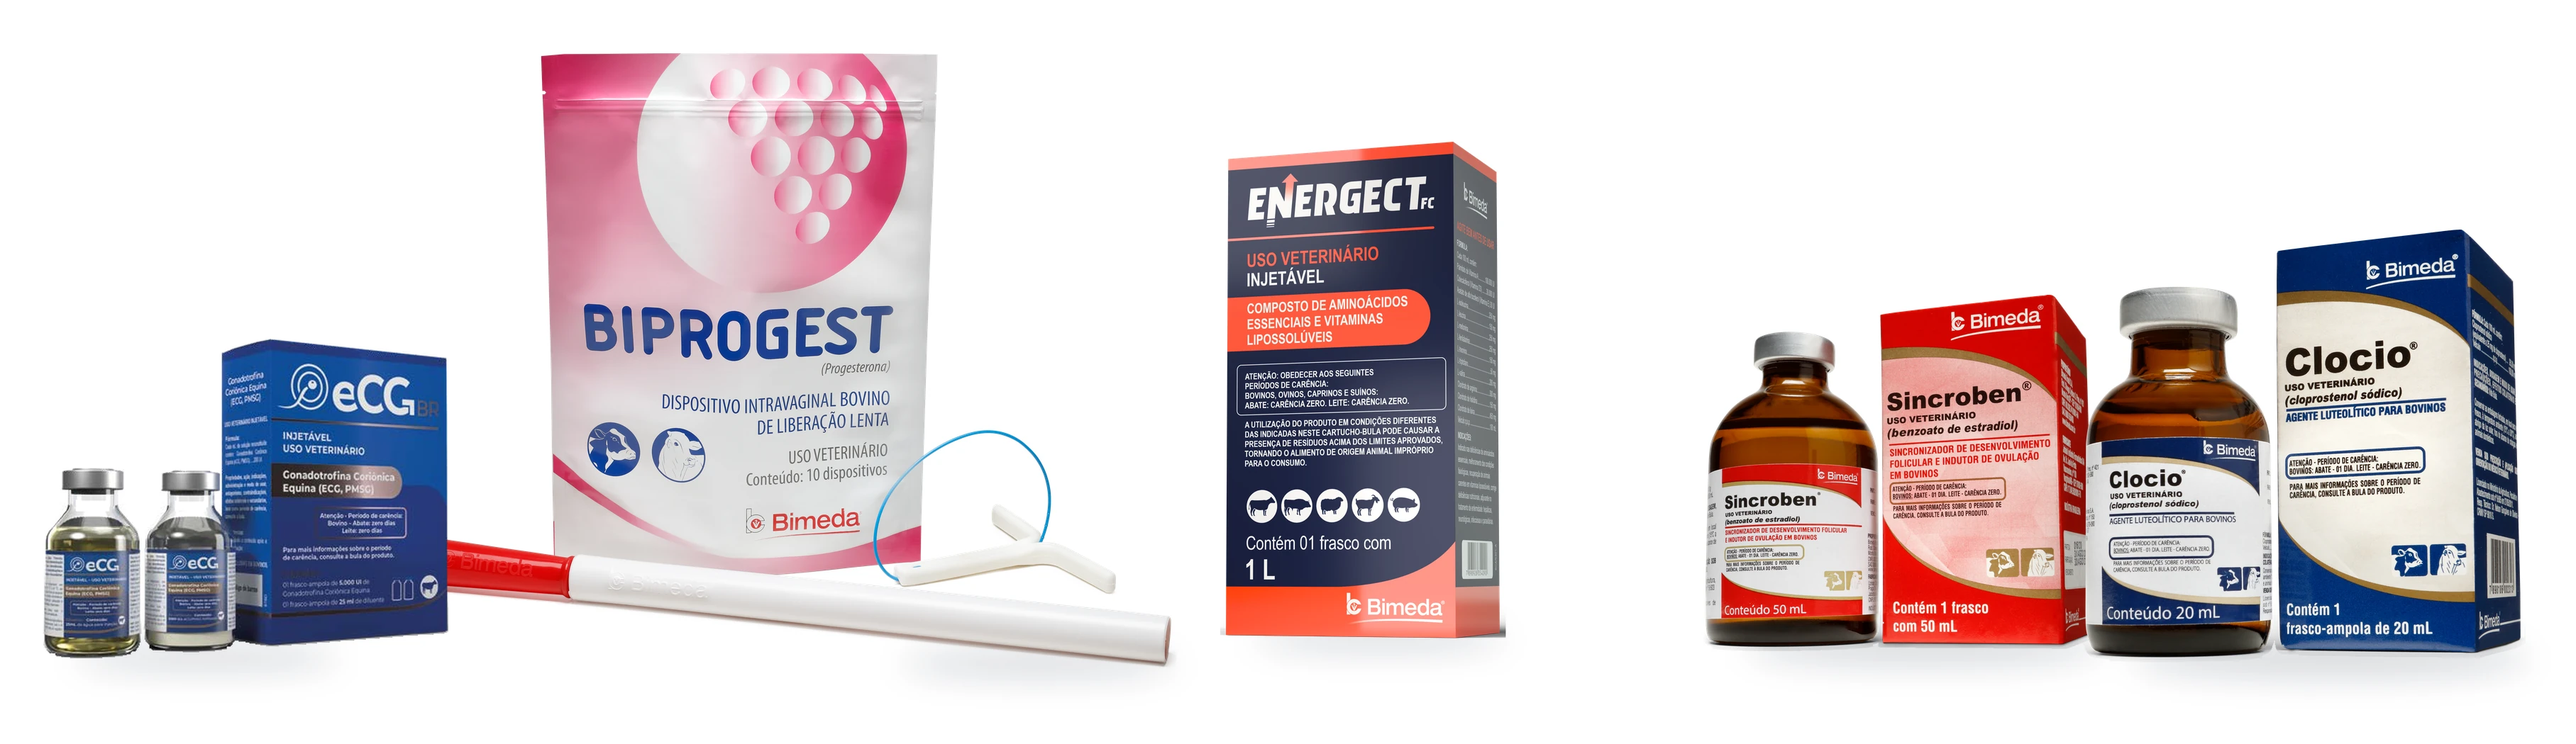
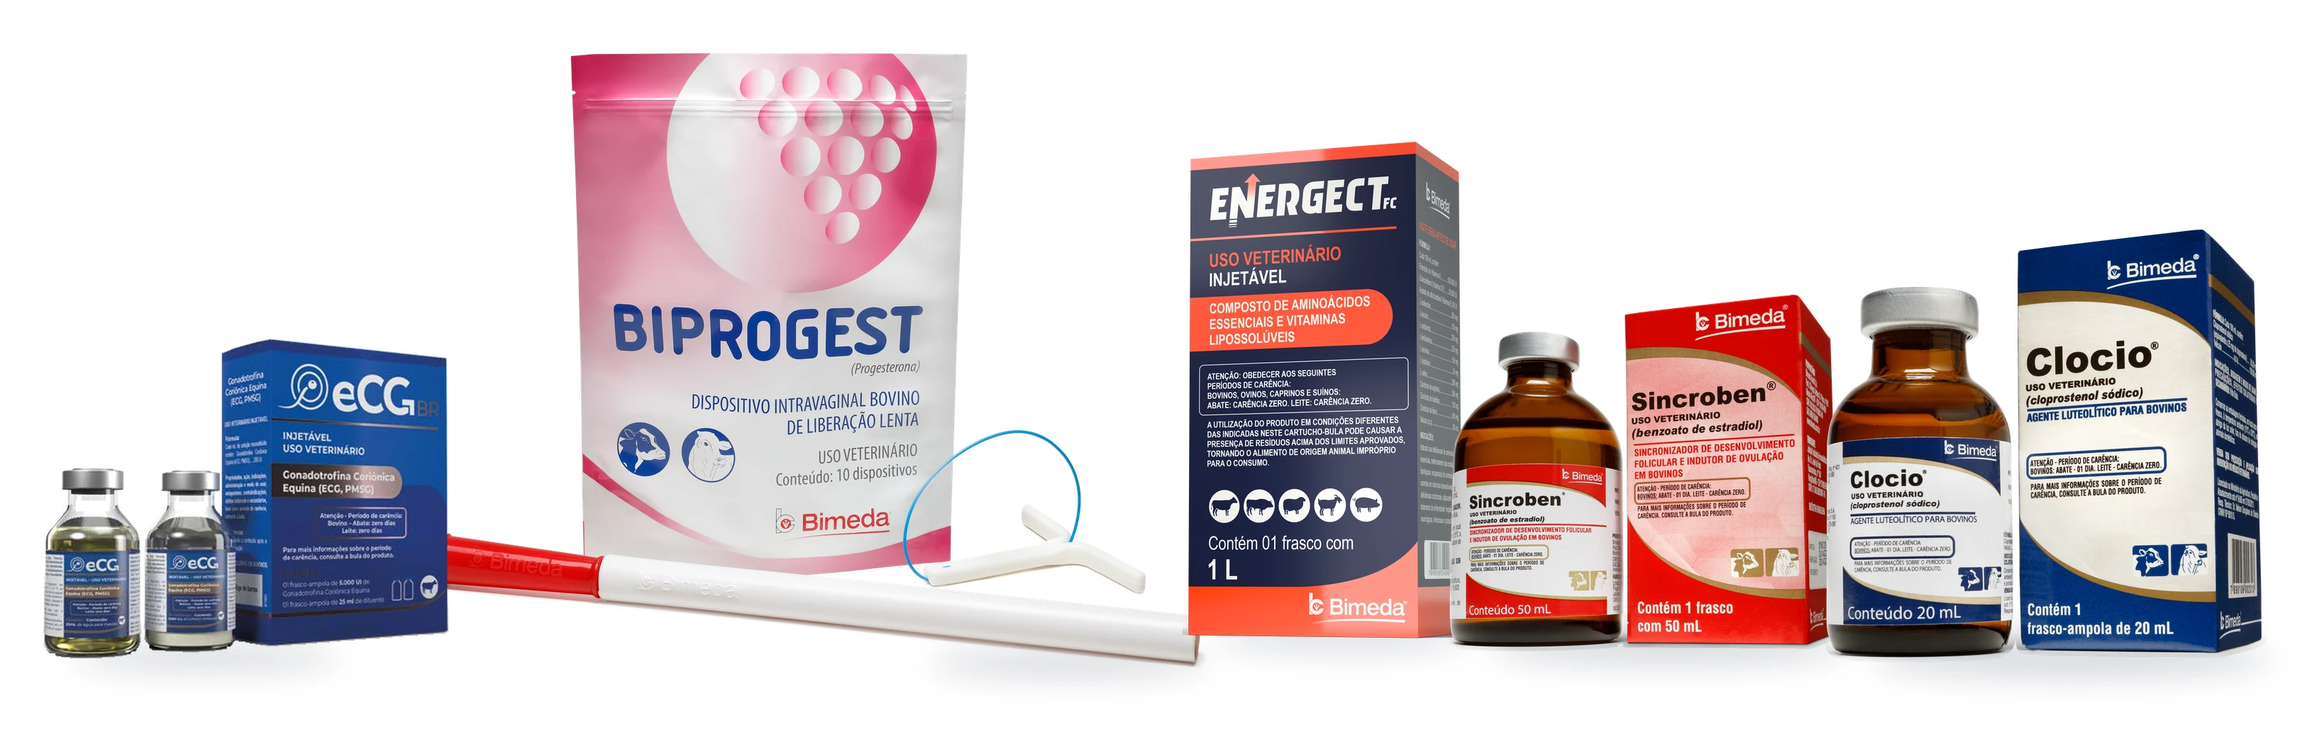
Corrige espacamento da foto de familia: silhueta, nao numero magico
A rodada anterior tinha vao morto enorme entre Biprogest e Energect,
porque o espacamento usava numeros ajustados no olho por par (`folga`),
calibrados sobre a largura da caixa delimitadora de cada peca. Para o
Biprogest isso e um problema: o aplicador, fino e diagonal, deixa a caixa
delimitadora bem mais larga que o saco em si, entao qualquer numero fixo
ou deixa vao morto (caso anterior) ou risca de colidir com o vizinho.

Troquei por um encaixe por perfil de silhueta: para cada linha do canvas
final, calcula a borda visual real (esquerda/direita) de cada produto, e
posiciona a peca seguinte encostando nessa borda com uma unica constante
de sobreposicao leve (GAP=-16px), igual para todo par. Sem numero magico
por peca, sem gap arbitrario, encaixa como produtos numa mesa de verdade.

Continua 100% compositing de pixel real, mesma regra de sempre: nenhum
pixel de produto e alterado, so a sombra de estudio solta de cada arquivo
e apagada (funcao sombra_segura, ja existente, sem mudanca).

diff --git a/index.html b/index.html
@@ -193,7 +193,7 @@
         <source srcset="assets/img/produtos-familia.webp" type="image/webp">
         <img src="assets/img/produtos-familia.png"
              alt="eCG BR, Biprogest, Energect FC, Sincroben e Clocio, linha Bimeda Reprodução"
-             width="3631" height="1050" loading="lazy">
+             width="3266" height="1050" loading="lazy">
       </picture>
     </div>
 

diff --git a/tools/monta-foto-familia.py b/tools/monta-foto-familia.py
@@ -7,16 +7,27 @@ funcao de sombra so mexe em pixels comprovadamente fora de um halo de
 protecao ao redor de qualquer pixel opaco, entao rotulo, texto e detalhe
 fino nunca sao tocados.
 
-O fundo e branco puro, igual ao resto do site. Foi testado gerar uma chapa
-de estudio via IA (Higgsfield / Nano Banana) para servir de fundo, mas o
-resultado ficou "montado" demais numa pagina que ja e branca do começo ao
-fim: descartado. A propria tentativa de IA compor os produtos foi
-descartada antes disso, por um motivo mais serio: o modelo reescreve texto
-pequeno de rotulo, e reescreve errado (viu-se "ECC, PHEC" no lugar de
-"ECG, PMSG", "USG VETERINARIO" no lugar de "USO VETERINARIO", dosagem
-trocada). Produto veterinario regulado nao pode correr esse risco, entao a
-montagem final e 100% compositing de pixel real, sem generativa nenhuma
-tocando produto.
+O fundo e branco puro, igual ao resto do site. Duas vias generativas foram
+testadas e descartadas antes desta: (1) compor os cinco produtos inteiros
+no Higgsfield (Nano Banana 2), com os pack shots reais como referencia de
+imagem, luz e sombra saiam otimas mas o modelo reescrevia o texto miudo do
+rotulo, e reescrevia errado ("ECC, PHEC" no lugar de "ECG, PMSG", "USG
+VETERINARIO" no lugar de "USO VETERINARIO", dosagem trocada no Sincroben);
+(2) gerar so uma chapa de estudio vazia via IA para servir de fundo, e
+compor os produtos reais por cima, descartado por deixar a composicao
+"montada" demais numa pagina que ja e branca do inicio ao fim. A montagem
+final e 100% compositing de pixel real, sem generativa nenhuma tocando
+produto.
+
+Posicionamento: nao ha numero magico de espacamento por par (isso ja foi
+tentado e gerou vao morto enorme entre Biprogest e Energect, porque a
+largura da caixa delimitadora do Biprogest inclui o aplicador, um apendice
+fino e diagonal, bem mais largo que o saco em si). Em vez disso, cada
+produto e encostado no anterior calculando, linha por linha no eixo Y do
+canvas final, a borda visual real da silhueta de cada um (ver
+`perfil_esq_dir`), com uma unica constante `GAP` de sobreposicao leve,
+igual para todo par. O resultado e produtos encostados como numa mesa de
+verdade, sem gap arbitrario e sem numero ajustado no olho por peca.
 
 Proporcao entre os produtos: nao inventada. Vem da propria foto que a
 Bimeda ja aprovou (a que estava no ar antes desta rodada), medida por
@@ -35,19 +46,19 @@ AQUI = os.path.dirname(__file__)
 SAIDA = os.path.join(AQUI, '..', 'assets', 'img')
 
 H, BASE = 1050, 900
+REF_H = 700   # altura de referencia do Energect na arte final, em px
+GAP = -16     # negativo = leve sobreposicao de contato entre pecas vizinhas, mesma pra todo par
 
 # alturas medidas na foto ja aprovada pelo cliente (energect = referencia 601px = 1.0)
 #   biprogest 708/601=1.178 | clocio-caixa 512/601=0.852 | sincroben-caixa 426/601=0.709
-REF_H = 700  # altura de referencia do Energect na arte final, em px
-
 PECAS = [
-  # chave        arquivo                                                                razao  folga  avanco
-  ('ecg',        os.path.join(AQUI, 'ecg-recorte-limpo.png'),                           0.62,  -70,  14),
-  ('biprogest',  B+'/imagens/produtos/Biprogest/Embalagem + Produto Biprogest.png',      1.178, -330,  0),
+  # chave        arquivo                                                                 razao  avanco
+  ('ecg',        os.path.join(AQUI, 'ecg-recorte-limpo.png'),                            0.62,   14),
+  ('biprogest',  B+'/imagens/produtos/Biprogest/Embalagem + Produto Biprogest.png',       1.178,   0),
   ('energect',   B+'/materiais enviados/2025/Energect/Materiais do Folheto Energect/'
-                   'Cartucho - Energect FC 1000 mL - Direita.png',                      1.000, -46,   0),
-  ('sincroben',  B+'/imagens/produtos/Sincroben/Frasco + Cartucho - Sincroben 50 mL.png',0.709, -58,  12),
-  ('clocio',     B+'/imagens/produtos/Clocio/Frasco + Cartucho - Clocio 20 mL.png',      0.852,   0,  20),
+                   'Cartucho - Energect FC 1000 mL - Direita.png',                       1.000,   0),
+  ('sincroben',  B+'/imagens/produtos/Sincroben/Frasco + Cartucho - Sincroben 50 mL.png', 0.709,  12),
+  ('clocio',     B+'/imagens/produtos/Clocio/Frasco + Cartucho - Clocio 20 mL.png',       0.852,  20),
 ]
 ORDEM_Z = ['biprogest', 'energect', 'ecg', 'sincroben', 'clocio']
 
@@ -93,8 +104,24 @@ def sombra_segura(im, protecao_px):
     out[:, :, 3] = novo
     return Image.fromarray(out)
 
+def perfil_esq_dir(im):
+    """Para cada linha local (y), a coluna mais a esquerda e mais a direita
+    com pixel opaco, ou -1 se a linha nao tem conteudo. E o que permite
+    encostar duas silhuetas de verdade em vez de usar a largura da caixa
+    delimitadora, que para pecas com apendice fino (como o aplicador do
+    Biprogest) e bem maior que o produto em si."""
+    a = np.array(im)[:, :, 3] > 190
+    esq = np.full(im.height, -1, dtype=int)
+    dir_ = np.full(im.height, -1, dtype=int)
+    for y in range(im.height):
+        xs = np.where(a[y])[0]
+        if len(xs):
+            esq[y] = xs.min()
+            dir_[y] = xs.max()
+    return esq, dir_
+
 unidades = []
-for chave, path, razao, folga, avanco in PECAS:
+for chave, path, razao, avanco in PECAS:
     im_orig = carregar_sem_tocar(path)
     protecao = max(6, round(im_orig.height * 0.012))
     im = sombra_segura(im_orig, protecao)
@@ -102,15 +129,33 @@ for chave, path, razao, folga, avanco in PECAS:
     alvo = REF_H * razao
     k = alvo / (bot - top)
     im2 = im.resize((max(1, round(im.width*k)), max(1, round(im.height*k))), Image.LANCZOS)
-    unidades.append(dict(chave=chave, im=im2, cart_bot=round(bot*k), folga=folga, avanco=avanco))
+    cart_bot = round(bot*k)
+    oy = BASE + avanco - cart_bot   # deslocamento vertical desta peca no canvas
+    esq, dir_ = perfil_esq_dir(im2)
+    unidades.append(dict(chave=chave, im=im2, oy=oy, esq=esq, dir_=dir_))
     print(f'{chave:10s} razao={razao:.3f}  tamanho final {im2.size}')
 
+# encaixa cada peca na anterior usando o perfil real, linha por linha, em coordenadas de canvas
 MARGEM = 60
-x = MARGEM
-for u in unidades:
-    u['x'] = x
-    x += u['im'].width + u['folga']
-W = x - unidades[-1]['folga'] + MARGEM
+unidades[0]['x'] = MARGEM
+for i in range(1, len(unidades)):
+    prev, cur = unidades[i-1], unidades[i]
+    y0 = max(prev['oy'], cur['oy'])
+    y1 = min(prev['oy'] + len(prev['dir_']), cur['oy'] + len(cur['esq']))
+    dx = None
+    for y in range(y0, y1):
+        pd = prev['dir_'][y - prev['oy']]
+        ce = cur['esq'][y - cur['oy']]
+        if pd < 0 or ce < 0:
+            continue
+        necessario = (prev['x'] + pd + GAP) - ce
+        dx = necessario if dx is None else max(dx, necessario)
+    if dx is None:
+        dx = prev['x'] + prev['im'].width + GAP
+    cur['x'] = dx
+
+ultimo = unidades[-1]
+W = ultimo['x'] + ultimo['im'].width + MARGEM
 
 canvas = Image.new('RGBA', (W, H), (255, 255, 255, 255))
 
@@ -128,7 +173,7 @@ for u in unidades:
     if not len(xs): continue
     cx0, cx1 = x0 + xs.min(), x0 + xs.max()
     largura = cx1 - cx0
-    y = BASE + u['avanco'] + (pe - u['cart_bot'])
+    y = u['oy'] + pe
     desloc = round(largura * 0.06)
     d.ellipse([cx0 + round(largura*0.04) + desloc, y - round(largura*0.04),
                cx1 - round(largura*0.04) + desloc, y + round(largura*0.05)], fill=255)
@@ -138,7 +183,7 @@ canvas.paste(Image.new('RGBA', (W, H), (58, 68, 86, 255)), (0, 0), sh)
 
 for chave in ORDEM_Z:
     u = next(u for u in unidades if u['chave'] == chave)
-    canvas.alpha_composite(u['im'], (u['x'], BASE + u['avanco'] - u['cart_bot']))
+    canvas.alpha_composite(u['im'], (u['x'], u['oy']))
 
 canvas = canvas.crop((0, 0, W, H))
 canvas.save(os.path.join(SAIDA, 'produtos-familia.png'), optimize=True)
